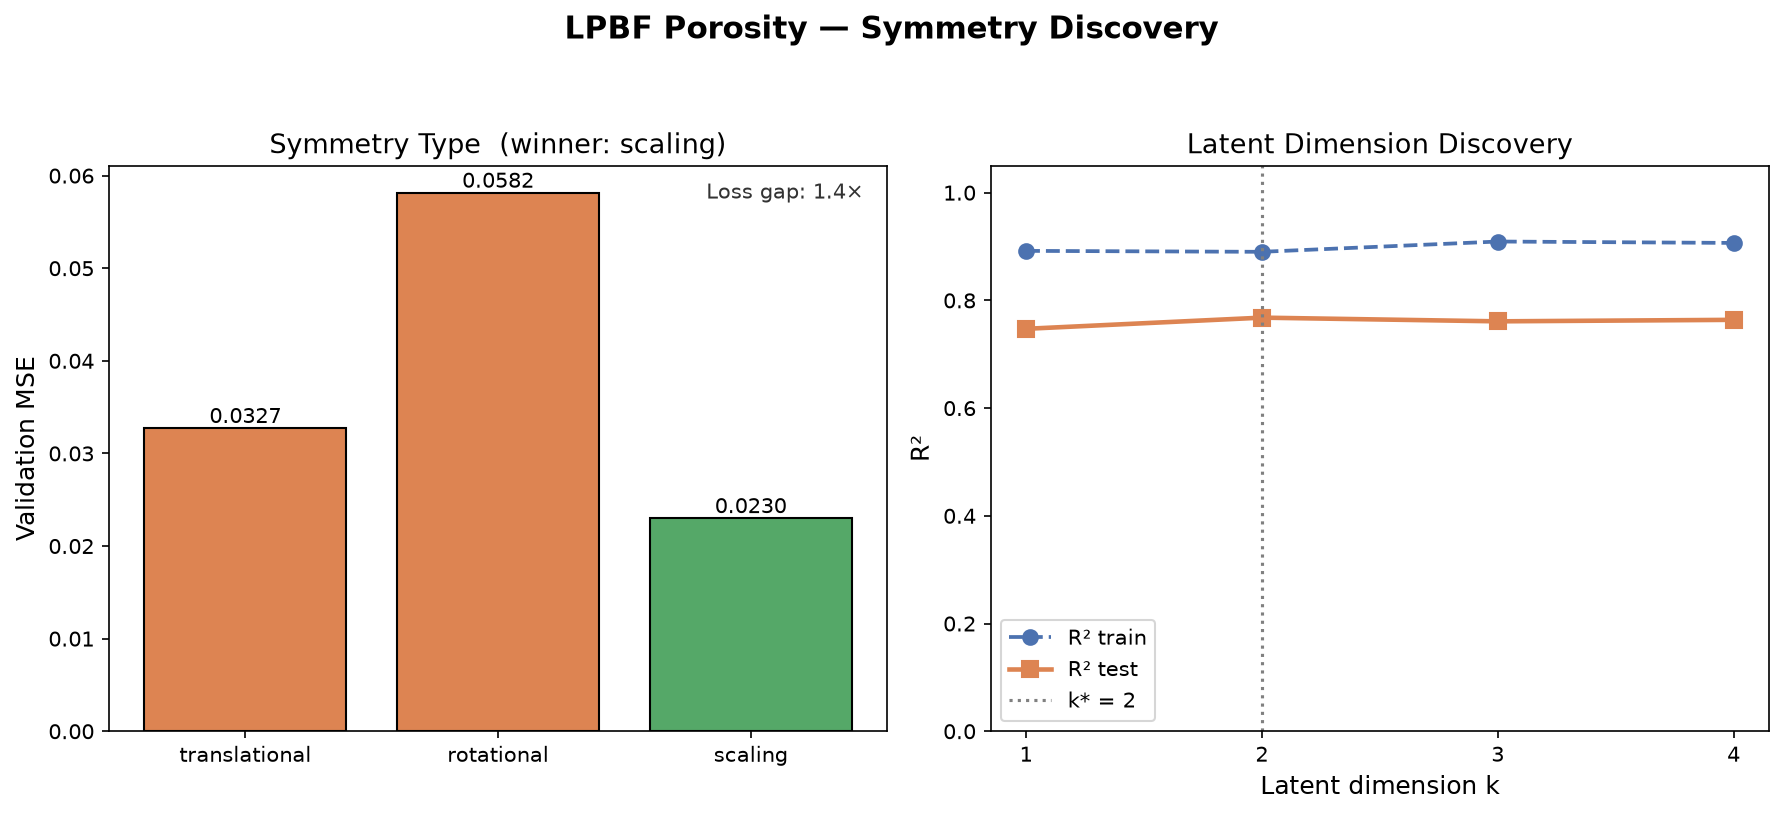
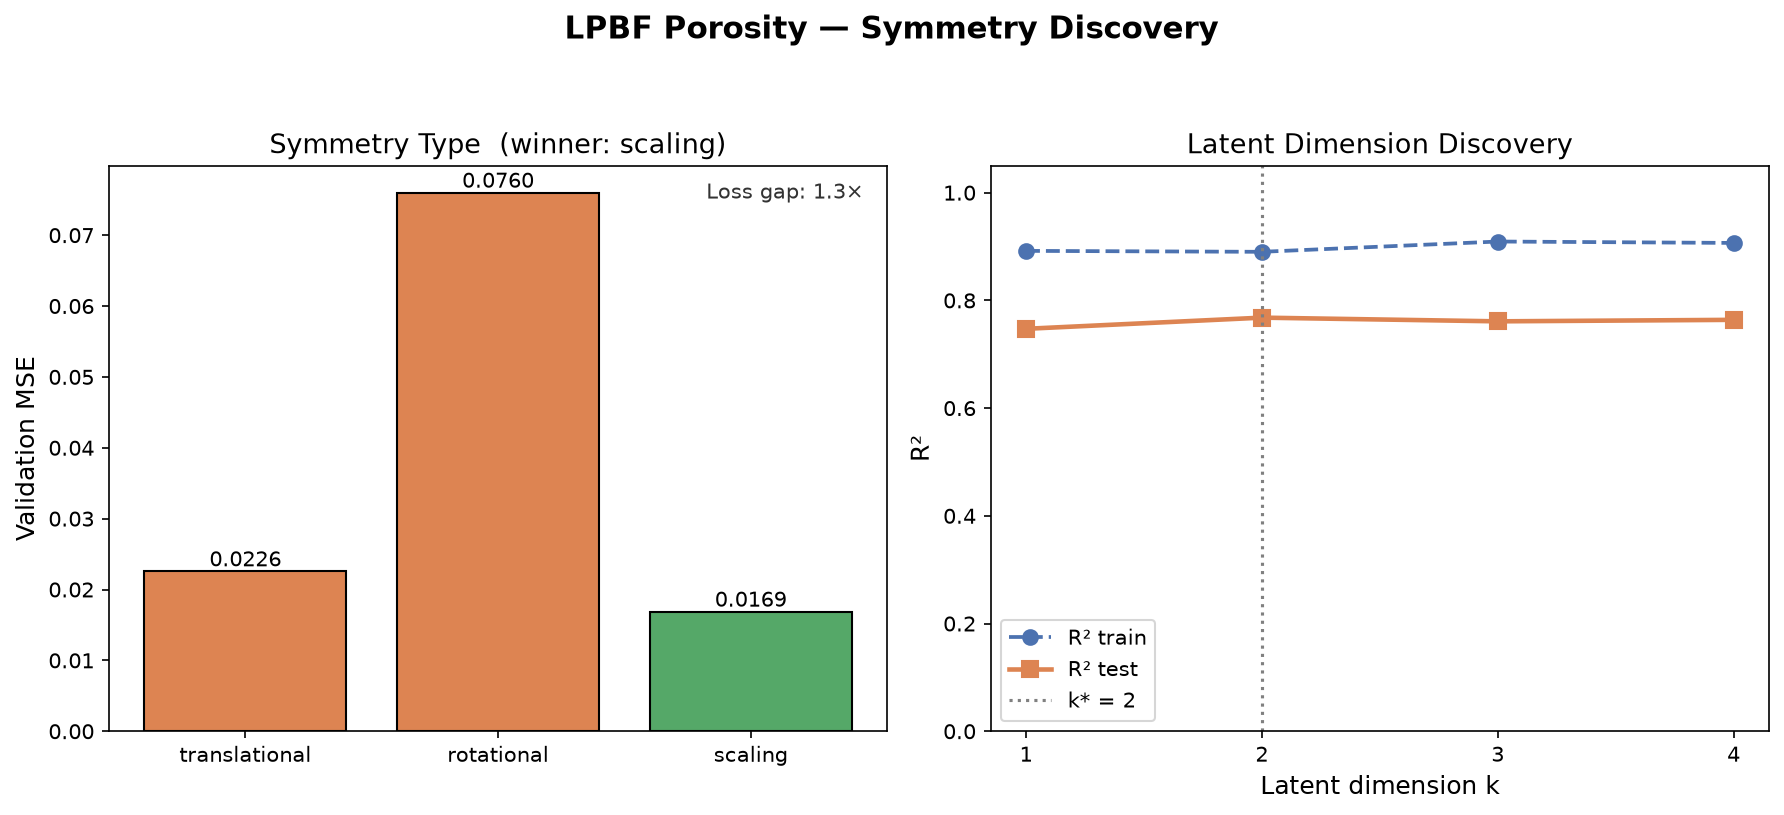
LPBF porosity: visualize discovered coefficients and generators in Pi space
Add a fourth output figure (lpbf_discovered_law_generators.png): coefficient
heatmap of the two winning encoder rows against the known-Pi DA coordinates
and the pure Pe_vap axis, pore fraction over the discovered 2-D latent,
heatmap of the six null-space generators, and an orbit-invariance check
(latent z exactly flat; known Pi drifts, reflecting the weak W alignment
and the Pe_vap/DA-group gauge directions).

The committed run.log now uses the same reproducibility convention as the
porous-media example (seed 42, PYTHONHASHSEED=0, single-threaded BLAS),
and the README documents that scaling vs translational is a statistical
tie across seeds on this dataset — only rotational is robustly excluded.

Claude-Session: https://claude.ai/code/session_01MfazmcSa3C3AC7Ey743Vmg

diff --git a/projects/20260912_Stage1_Prokash/Examples/lpbf_porosity_symmetry/discover_symmetry.py b/projects/20260912_Stage1_Prokash/Examples/lpbf_porosity_symmetry/discover_symmetry.py
@@ -1011,6 +1011,152 @@ def plot_pi_candidates(X, y, results, output_dir):
     print(f"Pi candidates figure saved to {out_path}")
 
 
+def plot_discovered_law_and_generators(y, results, output_dir):
+    """Visualize the discovered coefficients and generators in Pi space.
+
+    Four panels (requires pi-only mode and a scaling winner):
+      A. Coefficient heatmap: the k* winning encoder rows (L2-normalised)
+         stacked above the two known references — the notebook Pi expressed
+         in DA coordinates, and the pure Pe_vap axis.
+      B. Latent collapse: for k* = 2 a scatter of (z1, z2) colored by pore
+         fraction; for k* = 1 a scatter of pore fraction vs z1.
+      C. Heatmap of the null-space generators (rows) × Pi features (cols).
+      D. Orbit invariance: Pi(ε) = Pi0 · exp(ε·g).  The known normalised-
+         enthalpy Pi moves by exp(ε · c·g) exactly (c = its DA coordinates,
+         zero-padded over Pe_vap/Pr); the latent z stays flat by null(W).
+    """
+    os.makedirs(output_dir, exist_ok=True)
+    winner_encoder = results["winner_encoder"]
+    generators     = results["generators"]
+    W              = winner_encoder.weight_matrix          # (k*, n_pi)
+    pi_centred     = results["pi_centred"]
+    pi_names       = results["pi_names_step3"]
+    pi_basis       = results["pi_basis"]
+    n_pi           = pi_centred.shape[1]
+    n_lat          = W.shape[0]
+    n_gen          = len(generators)
+
+    known_coords, *_ = np.linalg.lstsq(pi_basis, KNOWN_PI_EXPONENTS, rcond=None)
+    c_pad = np.concatenate([known_coords, [0.0, 0.0]])     # over the 8 features
+    c_dir = c_pad / (np.linalg.norm(c_pad) + 1e-12)
+    pe_axis = np.zeros(n_pi)
+    pe_axis[n_pi - 2] = 1.0
+
+    W_dirs = W / (np.linalg.norm(W, axis=1, keepdims=True) + 1e-12)
+
+    # Latent coordinates (encoder-equivalent, incl. the 0.1 clamp)
+    log_pi = np.log(np.clip(np.abs(pi_centred), 0.1, None))
+    Z = log_pi @ W.T                                       # (n, k*)
+
+    # Orbits from the geometric centre (centred Pi ⇒ start point = 1s)
+    eps_grid = np.linspace(-0.5, 0.5, 41)
+    orbit_pi_known = np.zeros((n_gen, eps_grid.size))
+    orbit_dz_max   = np.zeros((n_gen, eps_grid.size))
+    for k, g in enumerate(generators):
+        orbit_pi_known[k] = np.exp(eps_grid * float(c_pad @ g))
+        Pi_orbit = np.exp(np.outer(eps_grid, g))
+        Zo = np.log(np.clip(Pi_orbit, 0.1, None)) @ W.T    # (n_eps, k*)
+        orbit_dz_max[k] = np.abs(Zo).max(axis=1)           # z(0) = 0 at centre
+
+    fig = plt.figure(figsize=(17, 13))
+    gs  = fig.add_gridspec(2, 2, hspace=0.5, wspace=0.32)
+    fig.suptitle("LPBF Porosity — Discovered Coefficients & Generators in Pi Space",
+                 fontweight="bold")
+
+    # ── Panel A: coefficient heatmap, W rows vs known references ────────────
+    ax = fig.add_subplot(gs[0, 0])
+    rows   = [W_dirs[i] for i in range(n_lat)] + [c_dir, pe_axis]
+    labels = [f"W row {i+1}" for i in range(n_lat)] + ["known Pi (DA)", "Pe_vap axis"]
+    M = np.stack(rows, axis=0)
+    vmax = float(np.max(np.abs(M))) or 1.0
+    im = ax.imshow(M, cmap="RdBu_r", vmin=-vmax, vmax=vmax, aspect="auto")
+    ax.set_xticks(range(n_pi))
+    ax.set_xticklabels(pi_names, rotation=30, ha="right")
+    ax.set_yticks(range(len(rows)))
+    ax.set_yticklabels(labels)
+    ax.axhline(n_lat - 0.5, color="black", lw=1.5)
+    for i in range(len(rows)):
+        for j in range(n_pi):
+            v = M[i, j]
+            if abs(v) > 0.05:
+                ax.text(j, i, f"{v:+.2f}", ha="center", va="center",
+                        color="white" if abs(v) > 0.6 * vmax else "black",
+                        fontsize=12)
+    fig.colorbar(im, ax=ax, fraction=0.046, pad=0.04, label="component")
+    cos_txt = "   ".join(
+        f"cos(W{i+1},knownPi)={float(W_dirs[i] @ c_dir):+.2f}"
+        for i in range(n_lat))
+    ax.set_title(f"Discovered coefficients (L2-n) vs known references\n{cos_txt}",
+                 fontsize=16)
+
+    # ── Panel B: latent collapse ─────────────────────────────────────────────
+    ax = fig.add_subplot(gs[0, 1])
+    if n_lat >= 2:
+        sc = ax.scatter(Z[:, 0], Z[:, 1], c=y, cmap="Blues", s=30,
+                        edgecolors="#666666", linewidths=0.4)
+        fig.colorbar(sc, ax=ax, fraction=0.046, pad=0.04, label="pore fraction")
+        ax.set_xlabel("z₁ = W₁ · log(Pi_centred)")
+        ax.set_ylabel("z₂ = W₂ · log(Pi_centred)")
+        ax.set_title("Pore fraction over the 2-D discovered latent")
+    else:
+        ax.scatter(Z[:, 0], y, c="#4C72B0", s=25, alpha=0.75, edgecolors="none")
+        ax.set_xlabel("z = W · log(Pi_centred)")
+        ax.set_ylabel("pore fraction")
+        ax.set_title("Pore fraction vs the discovered latent")
+
+    # ── Panel C: generator heatmap ───────────────────────────────────────────
+    ax = fig.add_subplot(gs[1, 0])
+    if n_gen > 0:
+        G = np.stack([np.asarray(g).ravel() for g in generators], axis=0)
+        vmax = float(np.max(np.abs(G))) or 1.0
+        im = ax.imshow(G, cmap="RdBu_r", vmin=-vmax, vmax=vmax, aspect="auto")
+        ax.set_xticks(range(n_pi))
+        ax.set_xticklabels(pi_names, rotation=30, ha="right")
+        ax.set_yticks(range(n_gen))
+        ax.set_yticklabels([f"g{i+1}" for i in range(n_gen)])
+        for i in range(n_gen):
+            for j in range(n_pi):
+                v = G[i, j]
+                if abs(v) > 0.05:
+                    ax.text(j, i, f"{v:+.2f}", ha="center", va="center",
+                            color="white" if abs(v) > 0.6 * vmax else "black",
+                            fontsize=11)
+        fig.colorbar(im, ax=ax, fraction=0.046, pad=0.04, label="component")
+        ax.set_title(f"{n_gen} generators of pore-fraction invariance "
+                     f"(rows = null(W))")
+    else:
+        ax.set_axis_off()
+        ax.set_title("No generators")
+
+    # ── Panel D: invariance along orbits ─────────────────────────────────────
+    ax = fig.add_subplot(gs[1, 1])
+    cmap = plt.get_cmap("tab10")
+    for k in range(n_gen):
+        ax.plot(eps_grid, orbit_pi_known[k], "-", color=cmap(k % 10),
+                lw=1.8, label=f"known Pi, g{k+1}")
+    if n_gen > 0:
+        ax.plot(eps_grid, 1.0 + orbit_dz_max.max(axis=0), "k--", lw=2.2,
+                alpha=0.9, label="1 + max|Δz|")
+    ax.axhline(1.0, color="grey", ls=":", lw=1.2)
+    ax.set_xlabel("Orbit parameter  ε   (Pi → Pi · exp(ε·g))")
+    ax.set_ylabel("ratio to ε=0")
+    ax.set_title("Invariance check: known Pi along each orbit")
+    ax.legend(loc="best", ncol=2, fontsize=10)
+    dev = float(np.max(np.abs(orbit_pi_known - 1.0))) if n_gen else 0.0
+    ax.text(0.03, 0.03,
+            f"max |ΔPi/Pi|={dev:.2f} at |ε|=0.5\n"
+            "z flat by null(W); known-Pi drift reflects W–Pi misalignment\n"
+            "and the Pe_vap/DA-group collinearity (gauge directions)",
+            transform=ax.transAxes, va="bottom", ha="left", fontsize=10,
+            color="#333333")
+
+    plt.tight_layout(rect=[0, 0, 1, 0.95])
+    out_path = os.path.join(output_dir, "lpbf_discovered_law_generators.png")
+    fig.savefig(out_path, dpi=150, bbox_inches="tight")
+    plt.close(fig)
+    print(f"Discovered-coefficients & generators figure saved to {out_path}")
+
+
 def plot_results(X, y, results, output_dir):
     """Two-panel summary: symmetry type bar chart + latent-dimension R² curve."""
     os.makedirs(output_dir, exist_ok=True)
@@ -1095,6 +1241,11 @@ def main():
     print("=" * 60)
     plot_pi_candidates(X, y, results, args.output_dir)
     plot_results(X, y, results, args.output_dir)
+    if args.pi_only and results["winner_type"] == "scaling":
+        plot_discovered_law_and_generators(y, results, args.output_dir)
+    else:
+        print("Skipping Pi-space coefficients/generator figure "
+              "(requires pi-only mode and a scaling winner).")
 
     print()
     print("=" * 60)

diff --git a/projects/20260912_Stage1_Prokash/Examples/lpbf_porosity_symmetry/README.md b/projects/20260912_Stage1_Prokash/Examples/lpbf_porosity_symmetry/README.md
@@ -213,19 +213,25 @@ column divided by its geometric mean — a purely multiplicative rescaling.
 | Translational | `z = W · Pi` | Additive / affine symmetry |
 | Rotational | `z = W · Pi²` | Quadratic / Euclidean symmetry |
 
-**Actual results (k* = 2, 8 Pi inputs):**
+**Actual results (k* = 2, 8 Pi inputs; reproducible run, seed 42 with
+`PYTHONHASHSEED=0` and single-threaded BLAS):**
 
 ```
-scaling        : 0.023015  ← winner
-translational  : 0.032745
-rotational     : 0.058156
-Loss gap: 1.4×
+scaling        : 0.016873  ← winner
+translational  : 0.022566
+rotational     : 0.075993
+Loss gap: 1.3×
 ```
 
-**Scaling wins** (1.4× over translational, ~2.5× over rotational). The
-gap is the narrowest of the three scaling examples — expected for noisy
-experimental data whose output (pore fraction) saturates at 0 and 1, so
-no global power law can hold exactly.
+**Caveat — scaling vs translational is a statistical tie on this
+dataset.** Across hash-locked seeds the winner flips (seed 42: scaling by
+1.3×; seeds 0 and 1: translational by ~1.0–1.1×), while rotational always
+loses by 2–4×. This is expected: after geometric centring the Pi values
+sit near 1, where `log(Pi) ≈ Pi − 1`, so the scaling and translational
+encoders see nearly identical features on a noisy dataset whose output
+saturates at 0 and 1. The robust conclusions are (a) rotational symmetry
+is excluded and (b) the 2-D latent organises pore fraction cleanly — the
+scaling-vs-affine distinction is below this dataset's resolution.
 
 ---
 
@@ -237,18 +243,21 @@ is invariant.
 **Input:** Winning encoder weight matrix `W` (shape `2 × 8` — the 6 DA
 Pi groups plus Pe_vap and Pr; `k* = 2`).
 
-**Encoder weight rows (L2-normalised):**
+**Encoder weight rows (L2-normalised, reproducible seed-42 run):**
 
 ```
           Pi1      Pi2      Pi3      Pi4      Pi5      Pi6   Pe_vap       Pr
-Row 1: +0.270   +0.375   -0.340   -0.098   +0.399   +0.069   -0.379   +0.594
-Row 2: -0.515   -0.217   -0.514   -0.263   -0.057   -0.424   -0.176   +0.374
+Row 1: -0.099   -0.685   -0.472   +0.223   -0.331   +0.319   +0.192   +0.008
+Row 2: -0.056   -0.141   +0.239   +0.115   +0.467   -0.285   +0.324   -0.709
 ```
 
 Direction cosines against the two natural references:
-`cos(row1, known-Pi DA coords) = −0.26`, `cos(row2, ·) = −0.47`;
-`cos(row1, pure Pe_vap axis) = −0.38`, `cos(row2, ·) = −0.18`.
-The alignment is partial, not sharp — see the collinearity caveat below.
+`cos(row1, known-Pi DA coords) = +0.07`, `cos(row2, ·) = +0.19`;
+`cos(row1, pure Pe_vap axis) = +0.19`, `cos(row2, ·) = +0.32`.
+The alignment is weak — the encoder spreads the signal across the
+redundant Pi set instead of isolating the textbook direction. See the
+collinearity caveat below, and note the row values themselves are
+seed-dependent (the 2-D *column space* of `W` is the meaningful object).
 
 With `k* = 2` and an 8-D Pi input there are `8 − 2 = 6` null-space
 generators.
@@ -289,6 +298,7 @@ All outputs go to `output_lpbf_porosity_symmetry/` (configurable via
 |---|---|
 | `lpbf_pi_candidates.png` | Pi-basis exponent heatmap + scatter of pore fraction vs each `log₁₀(Πₖ)` with logistic fit and R² |
 | `lpbf_porosity_symmetry_discovery.png` | 3-panel: Pi-collapse, symmetry-type bar chart, discovered iso-invariant orbits in (log V, log P) |
+| `lpbf_discovered_law_generators.png` | 4-panel (Pi space): coefficient heatmap of the two `W` rows vs the known-Pi DA coordinates and pure `Pe_vap` axis, pore fraction over the 2-D discovered latent `(z₁, z₂)`, heatmap of the 6 null-space generators, and orbit-invariance check (latent `z` exactly flat; known Pi drifts, reflecting W–Pi misalignment and gauge directions) |
 | `_da_repo/dataset_lpbf_enriched.csv` | CSV enriched with `gamma`, `Tb` columns |
 | `_da_repo/dimension_matrix.csv` | Explicit dimension matrix fed to `DataPreprocessor` |
 | `_da_repo/basis_vectors.csv` | Integer Pi-group exponent vectors |
@@ -300,7 +310,12 @@ All outputs go to `output_lpbf_porosity_symmetry/` (configurable via
 ```bash
 cd projects/20260912_Stage1_Prokash/Examples/lpbf_porosity_symmetry
 
-# Default: Pi-only input to Step 2 (recommended)
+# Reproducible run (matches committed run.log — locked hash seed + threads)
+OMP_NUM_THREADS=1 MKL_NUM_THREADS=1 OPENBLAS_NUM_THREADS=1 PYTHONHASHSEED=0 \
+  python discover_symmetry.py --data dataset_lpbf.csv --seed 42
+
+# Default: Pi-only input to Steps 2 and 3 (recommended); Step 3 winner is
+# seed-sensitive on this dataset without the locked environment above
 python discover_symmetry.py --data dataset_lpbf.csv
 
 # Deeper encoder:
@@ -331,7 +346,7 @@ Default training budget: `--latent-epochs 600`, `--sym-epochs 1500`,
 | Latent dimension k* | **2** — test R² 0.768 (vs 0.747 at k = 1; small margin) |
 | Pe_vap / Pr linearly in latent span? | R² = 0.77 / 0.47 — absorbed nonlinearly, not passed through |
 | Step 3 encoder input | 8 geometric-mean-centred Pi values |
-| Symmetry type | **Scaling** — 1.4× over translational, ~2.5× over rotational |
+| Symmetry type | **Scaling** (seed 42, 1.3×) — but a statistical tie with translational across seeds; rotational always excluded (2–4×) |
 | Generators | 6 directions in log-Pi space (8 Pi inputs − 2 latent dims) |
 | Caveat | log(Pe_vap) is exactly in the DA-group span → rank ≤ 7, some null-space directions are gauge |
 
